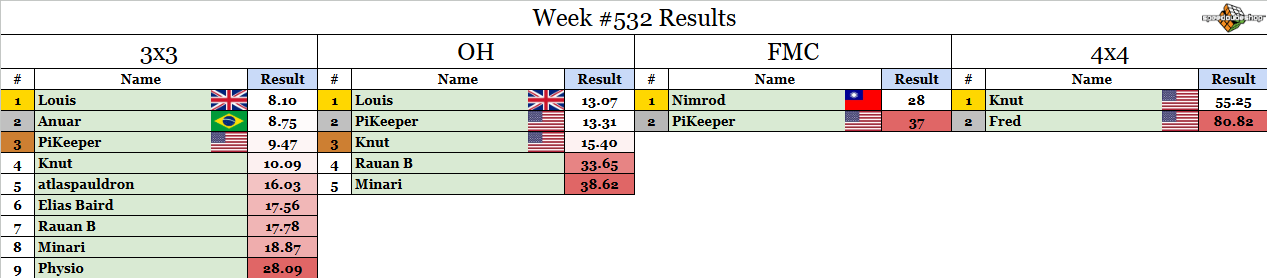
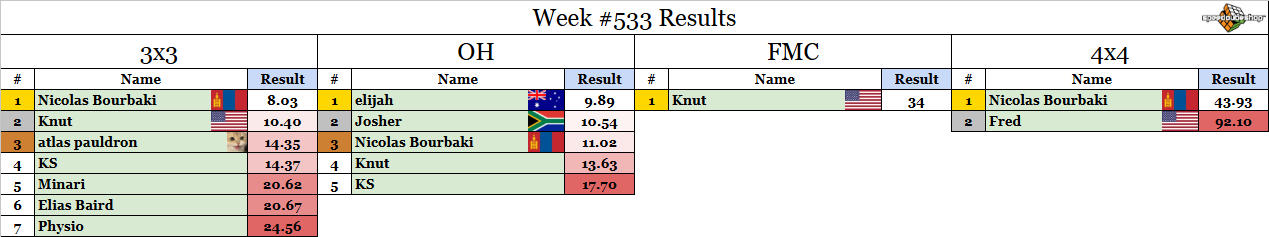
weekly comp update

Changed region(s): [[0.0, 0.0, 1.0, 1.0]]

diff --git a/src/pages/Rouxtorials.tsx b/src/pages/Rouxtorials.tsx
@@ -2,6 +2,11 @@ import * as React from 'react';
 import { Box, Tabs, Tab, Typography, Paper, Link } from '@mui/material';
 import Grid from '@mui/material/Grid2';
 import { TabPanel } from './Rouxsources';
+import { useState, useEffect } from "react";
+import ReactMarkdown from "react-markdown";
+import rehypeRaw from 'rehype-raw';
+import beginnerTutorial from '../markdown/beginnerTutorial.md';
+import advancedTutorial from '../markdown/advancedTutorial.md';
 
 
 interface TabPanelProps {
@@ -13,6 +18,14 @@ interface TabPanelProps {
 
 export default function Rouxtorials() {
     const [value, setValue] = React.useState(0);
+    const [beginnerMarkdown, setBeginnerMarkdown] = useState("");
+    const [advancedMarkdown, setAdvancedMarkdown] = useState("");
+      
+        useEffect(() => {
+          fetch(beginnerTutorial)
+            .then((res) => res.text())
+            .then((text) => setBeginnerMarkdown(text));
+        }, []);
 
     const handleChange = (event: React.SyntheticEvent, newValue: number) => {
         setValue(newValue);
@@ -56,76 +69,9 @@ export default function Rouxtorials() {
                     Coming soon!
                 </Typography>
 
-                {/* <Typography variant="h5" gutterBottom>
-                    Notation
-                </Typography>
-                <Typography gutterBottom>
-                    notation info: 
-                    https://ruwix.com/the-rubiks-cube/notation/
-                </Typography>
-                <Typography variant="h5" gutterBottom>
-                    Step 1: First Block
-                </Typography>
-                <Typography gutterBottom>
-                    first block info
+                {/* <ReactMarkdown rehypePlugins={[rehypeRaw]}>{beginnerMarkdown}</ReactMarkdown> */}
 
-                    <Grid container spacing={2}>
-                        <Grid size={{ xs: 12, md: 8 }}>
-                            <Typography variant="h6" gutterBottom>
-                                First Square
-                            </Typography>
-                            <Typography gutterBottom>
-                                how to make a square - examples
-                            </Typography>
-                        </Grid>
-                        <Grid size={{ xs: 12, md: 4 }}>
-                            <iframe width="250" height="380" style={{width: '250px', height: '380px', overflow: 'hidden', border: 0}} 
-                                src="https://ruwix.com/widget/3d/?alg=R%20U%20R'%20D2&colored=DL%20FL%20BL%20DFL%20DBL%20L/m&flags=showalg&pov=Ufl" scrolling="no"></iframe>
-                        </Grid>
-                    </Grid>
-
-                </Typography>
-                <Typography variant="h5" gutterBottom>
-                    Step 2: Second Block
-                </Typography>
-                <Typography gutterBottom>
-                    second block info
-                </Typography>
-                <Typography variant="h5" gutterBottom>
-                    Step 3: CMLL
-                </Typography>
-                <Typography gutterBottom>
-                    sune+j-perm, links to 2-look cmll algs
-                </Typography>
-                <Typography variant="h5" gutterBottom>
-                    Step 4: Last Six Edges
-                </Typography>
-                <Typography variant="h5" gutterBottom>
-                    4a: Edge Orientation
-                </Typography>
-                <Typography gutterBottom>
-                    recognizing bad edges, M U M', EO flowchart
-                </Typography>
-                <Typography variant="h6" gutterBottom>
-                    4b: Solving L and R Edges
-                </Typography>
-                <Typography gutterBottom>
-                    solving LR
-                </Typography>
-                <Typography variant="h6" gutterBottom>
-                    4c: Solving the M-Slice
-                </Typography>
-                <Typography gutterBottom>
-                    4c
-                </Typography>
-                <Typography variant="h6" gutterBottom>
-                    Getting Faster
-                </Typography>
-                <Typography gutterBottom>
-                    roadmap, Kian's videos
-                </Typography>
-                How to get faster
-                https://www.youtube.com/watch?v=mB-y0XQiN0M&list=PLajHGvYF36nSsL1r_DqrpDY07TnJwqEpn */}
+                
                 </Box>
             </TabPanel>
 

diff --git a/src/pages/CompPost.tsx b/src/pages/CompPost.tsx
@@ -1,6 +1,7 @@
 import React from 'react';
 import { useState, useEffect } from "react";
 import ReactMarkdown from "react-markdown";
+import rehypeRaw from 'rehype-raw';
 import file from '../weeklycomp/post.md';
 
 
@@ -15,7 +16,7 @@ export default function () {
   
     return (
         <div>
-          <ReactMarkdown>{markdown}</ReactMarkdown>
+          <ReactMarkdown rehypePlugins={[rehypeRaw]}>{markdown}</ReactMarkdown>
         </div>
       );
   }

diff --git a/src/weeklycomp/post.md b/src/weeklycomp/post.md
@@ -1,9 +1,9 @@
-## Weekly Competition #533
+## Weekly Competition #534 
  
  This weekly competition is proudly sponsored by SpeedCubeShop.com 
  One competitor will be selected at random to receive a $5 SCS gift card! 
  
- Congrats to last week's winner by a random draw: **Elias Baird**. DM me for the prize. 
+ Congrats to last week's winner by a random draw: **KS**. DM me for the prize. 
  
  Check whether or not you participated this week yet at [https://bit.ly/RMSWeeklyCompSummary](https://bit.ly/RMSWeeklyCompSummary)  
  
@@ -17,29 +17,29 @@
  7. The comp runs until Sunday 5pm Eastern time (more or less). Enter your times using the forms links below. 
  
 ### 3x3: [https://forms.gle/H5xoCWvGKnZ92fQt8](https://forms.gle/H5xoCWvGKnZ92fQt8) 
- 1. D L' B2 D' F2 U B2 D2 L2 D B2 F2 U' L B U' R2 B U L B 
- 2. B D2 R2 U2 R2 F R2 F' L2 B' F2 L' U B R2 B' F L2 D F R' 
- 3. F B' R U' L D R' B2 U' B D2 R2 F L2 B' U2 B' R2 F' 
- 4. R D' R2 U' F2 L2 U2 B2 R2 U L2 R F2 D' F' R D' L' F D2 
- 5. U' L' F2 R2 B2 L2 D2 L2 U B2 D2 L2 R2 B L2 R B' R U' R2 
+ 1. F' L2 B2 L2 D2 B' D2 R2 D2 F2 R2 U2 R' B' U R2 D2 R D L U 
+ 2. B R F U B' R2 U2 L B' L2 B2 R2 U D2 R2 U F2 B2 U B2 
+ 3. D2 F' L2 F' L2 F' U2 B' L2 F' U2 D L2 F' D2 B2 L D' B F2 
+ 4. U' D2 F L2 B' U2 F R2 U2 R2 B L2 B2 U R' F' D F2 D' L B' 
+ 5. F2 U2 D' F2 R2 D B2 R L2 F2 B R2 U2 B2 L2 U2 B R2 D2 R2 
  
 ### OH: [https://forms.gle/UgRLW3K1d5KkMGfM9](https://forms.gle/UgRLW3K1d5KkMGfM9) 
- 1. R B U L2 F2 U2 B2 D2 U' L2 U2 R' D2 U' L2 F R2 F R 
- 2. U' F R2 B' L B' U' F U2 R2 U2 R2 U' F2 D' R2 U F2 D B2 
- 3. L R2 D' F2 D2 U' B2 R2 U' L2 B2 U' F' D F' D' R' D2 B2 R' F' 
- 4. L2 B U2 R2 D2 B2 D2 F' U2 L2 F' R' D' B2 F' D2 L2 B' F L 
- 5. L' D F2 L' B2 F2 D2 L' U2 R' B2 R B2 R' U F L2 D L' F2 D 
+ 1. U2 B R F2 U2 D' L2 B' D2 F' L2 F' R2 U2 D2 B2 D B 
+ 2. F D2 R' F2 L' B' L' B2 R2 D B2 R2 U R2 U2 B2 L2 F R' 
+ 3. B2 R' L2 U2 L2 B D2 F' D2 F2 U2 L2 U' F' R D B F R 
+ 4. B2 U2 R F2 R B2 R2 U2 B2 F2 D B' R2 F D2 L R' U' B2 
+ 5. F L2 U' R2 U B2 U' F2 D F2 U2 B2 L D' B' D L' B' R U' 
  
 ### FMC: [https://forms.gle/1P9VUgZmA1pibwvL9](https://forms.gle/1P9VUgZmA1pibwvL9) 
- 1. R' U' F R2 F2 L2 U F2 U R2 F2 D' F2 R D2 B L' B U F' R' F2 U' R' U' F 
+ 1. R' U' F B U2 F2 U L2 U R2 F2 L2 U' R2 L F2 U' B' R' B2 D R' B' R' U' F 
  
 ### 4x4: [https://forms.gle/bHNjncvEcPvFWBP2A](https://forms.gle/bHNjncvEcPvFWBP2A) 
- 1. U2 B' L' U2 F' R2 F2 R2 U2 B' R2 B L2 F D L F' U' B D L Uw2 Rw2 D B' Rw2 D R2 B' U' F2 Fw2 L2 Uw2 Rw D Rw U' Rw Fw' L' Uw' Rw' Uw' F2 R 
- 2. L2 U2 R' D' F2 L' B D' B R2 B' L2 F2 R2 B' U2 R2 U' Rw2 B' Uw2 R L Uw2 B' Uw2 F B2 R' Rw2 F2 Uw R' U2 Fw2 R Uw' B2 Rw U' F2 Rw B 
- 3. D2 B' U2 D B2 U2 B2 L F' U2 D2 L2 B2 R U2 R2 D2 B2 U2 R2 Fw2 U' B2 L Fw2 Uw2 R' U' D2 B2 R D' Fw' U F' Fw2 Uw2 L2 B Uw' R Fw' U2 F 
- 4. U2 B U R2 D' L2 U R2 U2 R2 U R2 F2 U' F' R D' R2 U' F D Rw2 Uw2 R2 L' B2 R' D' Fw2 R' L' D Rw2 Fw L' B2 Rw2 F' Uw' R2 Rw B L' F2 Uw' F' 
- 5. U2 D2 F' L2 B' R2 U2 F' U2 L2 D2 L' D' R' L B' D' B2 R2 U' Rw2 U' B' Fw2 Rw2 D Uw2 R2 D' B' D' F' D' Rw' B2 D L Rw Uw' L' D B Uw' Rw' D 
+ 1. R2 D L2 D2 R2 D' F2 U2 L2 D R L2 F2 L2 B' U2 F' L' U' D Rw2 F Uw2 Fw2 Uw2 B D' R2 Rw2 U Uw2 F' B R' B2 Rw' U' D2 B2 Fw Rw' Fw R2 L2 Fw' 
+ 2. D2 R2 B2 U B2 U' L2 U B2 U F2 L U2 B' U' F R' D L' U' B' Rw2 B U2 B' Uw2 F' D2 R Uw2 B2 L' F' D2 Uw' B2 D2 L' Rw B2 D B' Rw Fw U R' 
+ 3. D2 R2 U2 R2 F2 U2 D' F2 U F2 R2 F L2 B2 R' D' B' R2 L' U F Rw2 F D' Fw2 D' F2 D Rw2 D F2 R Rw2 Uw2 Rw' F' R2 D2 F' Uw' B' L' Fw D' Uw2 Rw 
+ 4. L' F2 L U2 L F2 U2 F2 D2 L' B R2 D' B' U' B' U' R F' B Rw2 D L' Uw2 Rw2 Fw2 R' D B2 R D' Uw2 B2 Fw' U2 F2 R' B Uw' B2 D Rw' D Rw2 Fw 
+ 5. U2 L F2 D2 R L2 F2 B2 L' F2 R' D B' D F2 D' R D' B2 D2 Fw2 R2 Uw2 B Rw2 B L' D2 R2 B L' Fw2 Uw R' L' B' L Uw Fw' L2 Rw' D L' Fw2 Uw' 
  
 ### Winning FMC solutions from last week: 
- 1. Nimrod, 28 moves: [SOLUTION](https://bit.ly/44L0Ad0)
- 2. PiKeeper, 37 moves: [SOLUTION](https://bit.ly/43qsb0N)
+1. Knut, 34 moves: [SOLUTION](https://bit.ly/44OH4MM)
+ 

diff --git a/src/markdown/beginnerTutorial.md b/src/markdown/beginnerTutorial.md
@@ -1,0 +1,36 @@
+## Beginner tutorial
+ 
+ This weekly competition is proudly sponsored by SpeedCubeShop.com 
+ One competitor will be selected at random to receive a $5 SCS gift card! 
+ 
+ Congrats to last week's winner by a random draw: **Elias Baird**. DM me for the prize. 
+ 
+ Check whether or not you participated this week yet at [https://bit.ly/RMSWeeklyCompSummary](https://bit.ly/RMSWeeklyCompSummary)  
+ 
+### Embed test 
+
+ <iframe width="250" height="380" style={{width: '250px', height: '380px', overflow: 'hidden', border: 0}} 
+                                src="https://ruwix.com/widget/3d/?alg=R%20U%20R'%20D2&colored=DL%20FL%20BL%20DFL%20DBL%20L/m&flags=showalg&pov=Ufl" scrolling="no"></iframe>
+
+
+#### Notation
+notation info: https://ruwix.com/the-rubiks-cube/notation/
+Step 1: First Block
+first block info
+First Square
+how to make a square - examples
+Step 2: Second Block
+second block info
+Step 3: CMLL
+sune+j-perm, links to 2-look cmll algs
+Step 4: Last Six Edges
+4a: Edge Orientation
+recognizing bad edges, M U M', EO flowchart
+4b: Solving L and R Edges
+solving LR
+4c: Solving the M-Slice
+4c
+Getting Faster
+roadmap, Kian's videos
+How to get faster
+https://www.youtube.com/watch?v=mB-y0XQiN0M&list=PLajHGvYF36nSsL1r_DqrpDY07TnJwqEpn

diff --git a/src/markdown/advancedTutorial.md b/src/markdown/advancedTutorial.md
@@ -1,0 +1,13 @@
+## Advanced tutorial
+ 
+ This weekly competition is proudly sponsored by SpeedCubeShop.com 
+ One competitor will be selected at random to receive a $5 SCS gift card! 
+ 
+ Congrats to last week's winner by a random draw: **Elias Baird**. DM me for the prize. 
+ 
+ Check whether or not you participated this week yet at [https://bit.ly/RMSWeeklyCompSummary](https://bit.ly/RMSWeeklyCompSummary)  
+ 
+ ### Embed test 
+
+ <iframe width="250" height="380" style={{width: '250px', height: '380px', overflow: 'hidden', border: 0}} 
+                                src="https://ruwix.com/widget/3d/?alg=R%20U%20R'%20D2&colored=DL%20FL%20BL%20DFL%20DBL%20L/m&flags=showalg&pov=Ufl" scrolling="no"></iframe>
